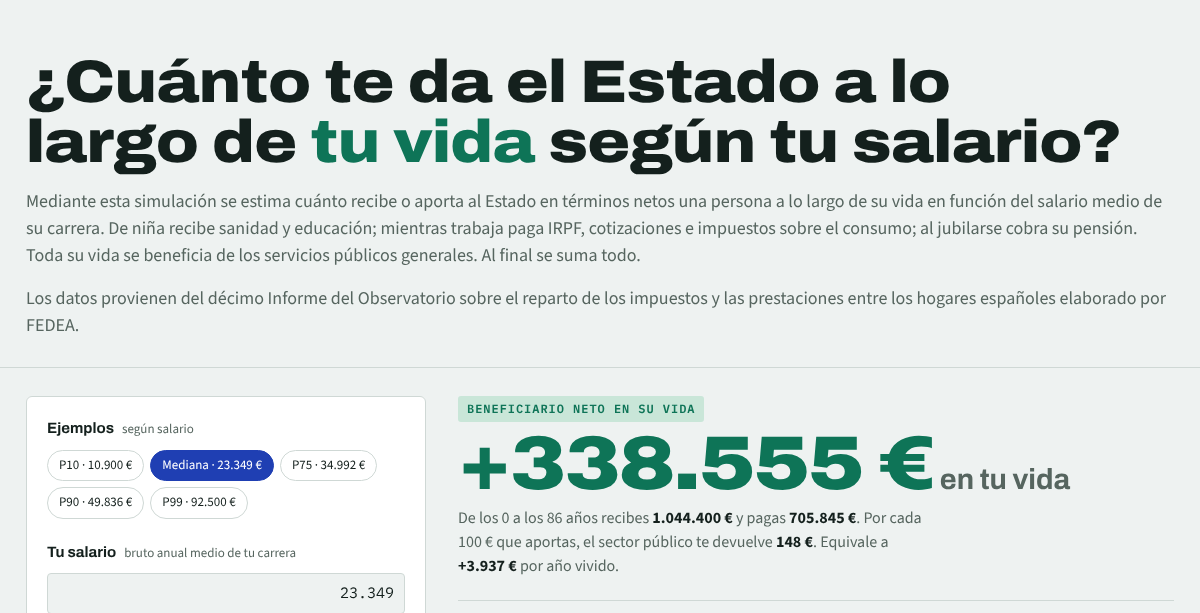
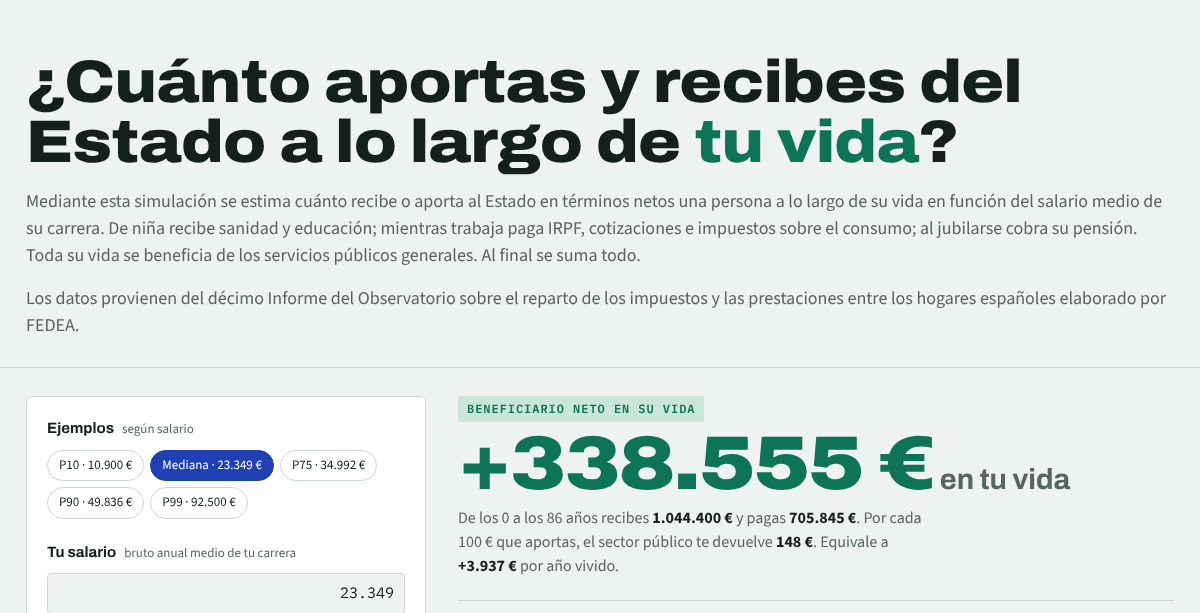
Add files via upload

Changed region(s): [[0.0308, 0.093, 0.9558, 0.31]]

diff --git a/index.html b/index.html
@@ -3,20 +3,20 @@
 <head>
 <meta charset="utf-8">
 <meta name="viewport" content="width=device-width, initial-scale=1, viewport-fit=cover">
-<title>¿Cuánto te da el Estado a lo largo de tu vida según tu salario?</title>
+<title>¿Cuánto aportas y recibes del Estado a lo largo de tu vida?</title>
 <meta name="description" content="Simulador del saldo neto de toda una vida con el sector público (sanidad, educación, pensión y servicios públicos menos impuestos), con datos del Observatorio de FEDEA.">
 <!-- Vista previa en redes -->
 <meta property="og:type" content="website">
 <meta property="og:url" content="https://segundogg.github.io/saldo-fiscal/">
-<meta property="og:title" content="¿Cuánto te da el Estado a lo largo de tu vida según tu salario?">
+<meta property="og:title" content="¿Cuánto aportas y recibes del Estado a lo largo de tu vida?">
 <meta property="og:description" content="Calcula cuánto recibes y cuánto aportas al Estado desde que naces hasta que mueres, según tu salario. Datos del Observatorio de FEDEA.">
-<meta property="og:image" content="https://segundogg.github.io/saldo-fiscal/preview.png?v=4">
+<meta property="og:image" content="https://segundogg.github.io/saldo-fiscal/preview.png?v=6">
 <meta property="og:image:width" content="1200">
 <meta property="og:image:height" content="613">
 <meta name="twitter:card" content="summary_large_image">
-<meta name="twitter:title" content="¿Cuánto te da el Estado a lo largo de tu vida según tu salario?">
+<meta name="twitter:title" content="¿Cuánto aportas y recibes del Estado a lo largo de tu vida?">
 <meta name="twitter:description" content="Calcula cuánto recibes y cuánto aportas al Estado desde que naces hasta que mueres, según tu salario. Datos del Observatorio de FEDEA.">
-<meta name="twitter:image" content="https://segundogg.github.io/saldo-fiscal/preview.png?v=4">
+<meta name="twitter:image" content="https://segundogg.github.io/saldo-fiscal/preview.png?v=6">
 
 
 <link rel="preconnect" href="https://fonts.googleapis.com">
@@ -185,7 +185,7 @@ tr.saldo td{font-weight:800;font-size:16px;border-bottom:0;padding-top:12px}
 </head>
 <body>
 <header class="top"><div class="wrap">
-  <h1>¿Cuánto te da el Estado a lo largo de <span class="r">tu vida</span> según tu salario?</h1>
+  <h1>¿Cuánto aportas y recibes del Estado a lo largo de <span class="r">tu vida</span>?</h1>
   <p class="lede">Mediante esta simulación se estima cuánto recibe o aporta al Estado en términos netos una persona a lo largo de su vida en función del salario medio de su carrera. De niña recibe sanidad y educación; mientras trabaja paga IRPF, cotizaciones e impuestos sobre el consumo; al jubilarse cobra su pensión. Toda su vida se beneficia de los servicios públicos generales. Al final se suma todo.</p>
   <p class="lede">Los datos provienen del décimo Informe del Observatorio sobre el reparto de los impuestos y las prestaciones entre los hogares españoles elaborado por FEDEA.</p>
 </div></header>
